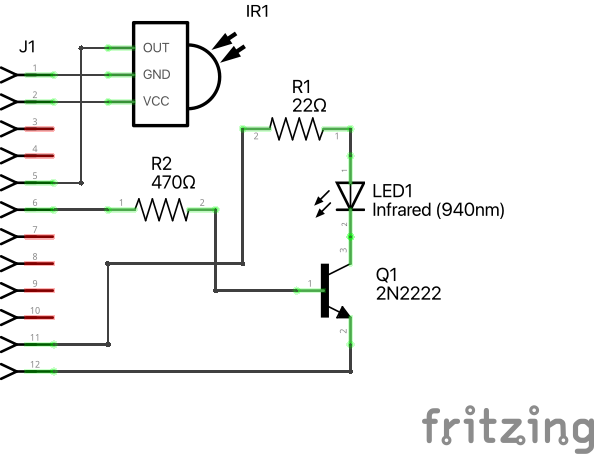
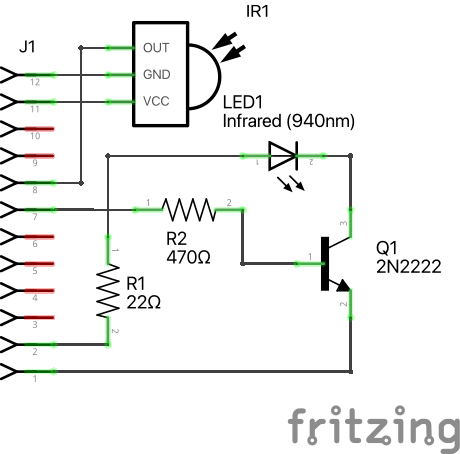
major info update

diff --git a/hardware/RF_FS1000A.md b/hardware/RF_FS1000A.md
@@ -3,24 +3,25 @@
 Based on https://github.com/BruceDevices/firmware/wiki/RF#unofficial-modules
 
 ## Compatibility
-Bruce firmware, limited to outdated ASK/OOK modulation. 433 MHz Wireless Remote apps.
+Bruce firmware, limited to legacy ASK/OOK modulation. 433 MHz Remote Control apps.
+Bruce settings: RX 14,  TX 21
 
 ## Inventory
 - 4-pin FS1000A 433 Mhz Wireless Receiver
-- 3-pin XY-MK-5V Wireless Transceiver 
-- 2x 433 MHz helical antennas or 16.5cm single-core copper wire
+- 3-pin XY-MK-5V 433 Mhz Wireless Transceiver 
+- 2x 433 MHz helical antennas or 2x 16.5cm single-core copper wires
 - 20x80 prototype PCB
 - female 12-pin header
 - thin copper wires
 - a ceramic capacitor 0.2-0.5uF (optional)
 
-## Wiring (TODO)
-| Lilka J2 # | Lilka pin | LoRa pin |
-|------------|-----------|----------|
+## Wiring
+| Lilka J2 # | Lilka pin | Module pin |
+|------------|-----------|------------|
 | 1          | GND       | GND      |
 | 2          | 3V3       | VCC      |
-| 3          | RX (44)   |     |
-| 4          | TX (43)   |     |
+| 3          | 44        |     |
+| 4          | 43        |     |
 | 5          | 48        |     |
 | 6          | 47        |     |
 | 7          | 21        |     |
@@ -30,3 +31,5 @@ Bruce firmware, limited to outdated ASK/OOK modulation. 433 MHz Wireless Remote 
 | 11         | 3V3       |          |
 | 12         | GND       |          |
 
+## Status
+Assembled and tested on a breadboard using Bruce. Decided not to solder a module due to limited usefulness 

diff --git a/bruce/README.md b/bruce/README.md
@@ -1,11 +1,11 @@
 # Bruce firmware for Lilka
 
 ## Compatibility
-Bruce is compatible with Lilka built-in wi-fi, bluetooth, and SD card reader. Additionally, you can use Lilka SX126x and CC1101 radio modules. See the **hardware** directory.
+Bruce is compatible with Lilka built-in wi-fi, bluetooth, and SD card reader. 
+Additionally, you can use Lilka's IR, SX126x, and CC1101 radio modules. See the **hardware** directory.
 
 ## Official repository
 https://github.com/BruceDevices/firmware
 
 ## Lilka port
-The pull request is currently pending, but you can get sources from here:
-https://github.com/sverdlyuk/firmware
+Lilka board support has been merged into the official BruceDevices/firmware repository and will be supported in 1.16.1+ releases

diff --git a/hardware/IR.md b/hardware/IR.md
@@ -9,7 +9,7 @@ You could use nearly any 36-38kHz 3-pin IC, but check the Datasheet for pinout.
 IR emitting LED could be scraped from any old TV or AC remote
 
 ## Compatibility
-Bruce and other IR apps. App settings: IR RX pin 14, IR TX pin 21
+Bruce and other IR control apps. App settings: IR RX pin 14, IR TX pin 21
 
 ## Inventory <pin name>
 - IR Emitter - 940nm LED1<+,->

diff --git a/hardware/SX126X_LoRa.md b/hardware/SX126X_LoRa.md
@@ -5,7 +5,7 @@ Following works with E22, DX-LR20, DX-LR30 and most likely other 12-pin SPI LoRa
 
 
 ## Compatibility
-Meshtastic, Meshcore, Bruce LoRa chat
+Meshtastic, Meshcore, Bruce LoRa chat. Bruce LoRa settings: SX126x
 
 ## Inventory
 - LoRa module
